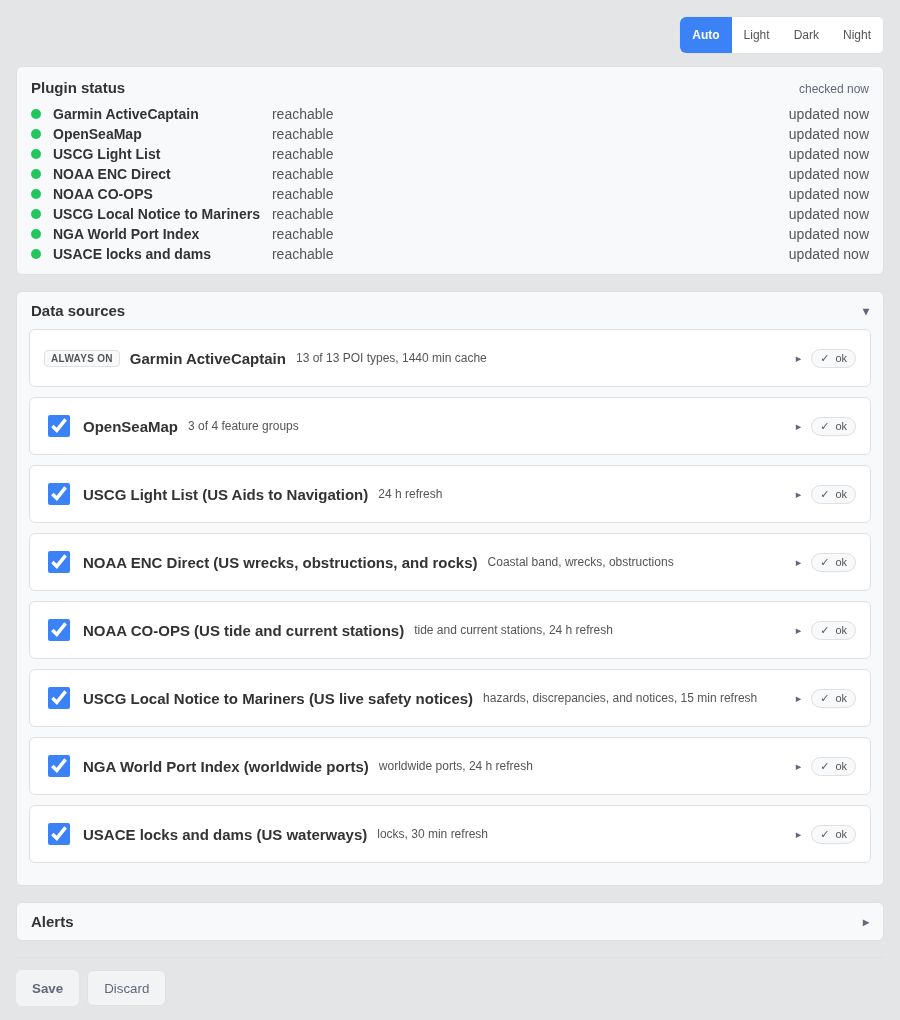
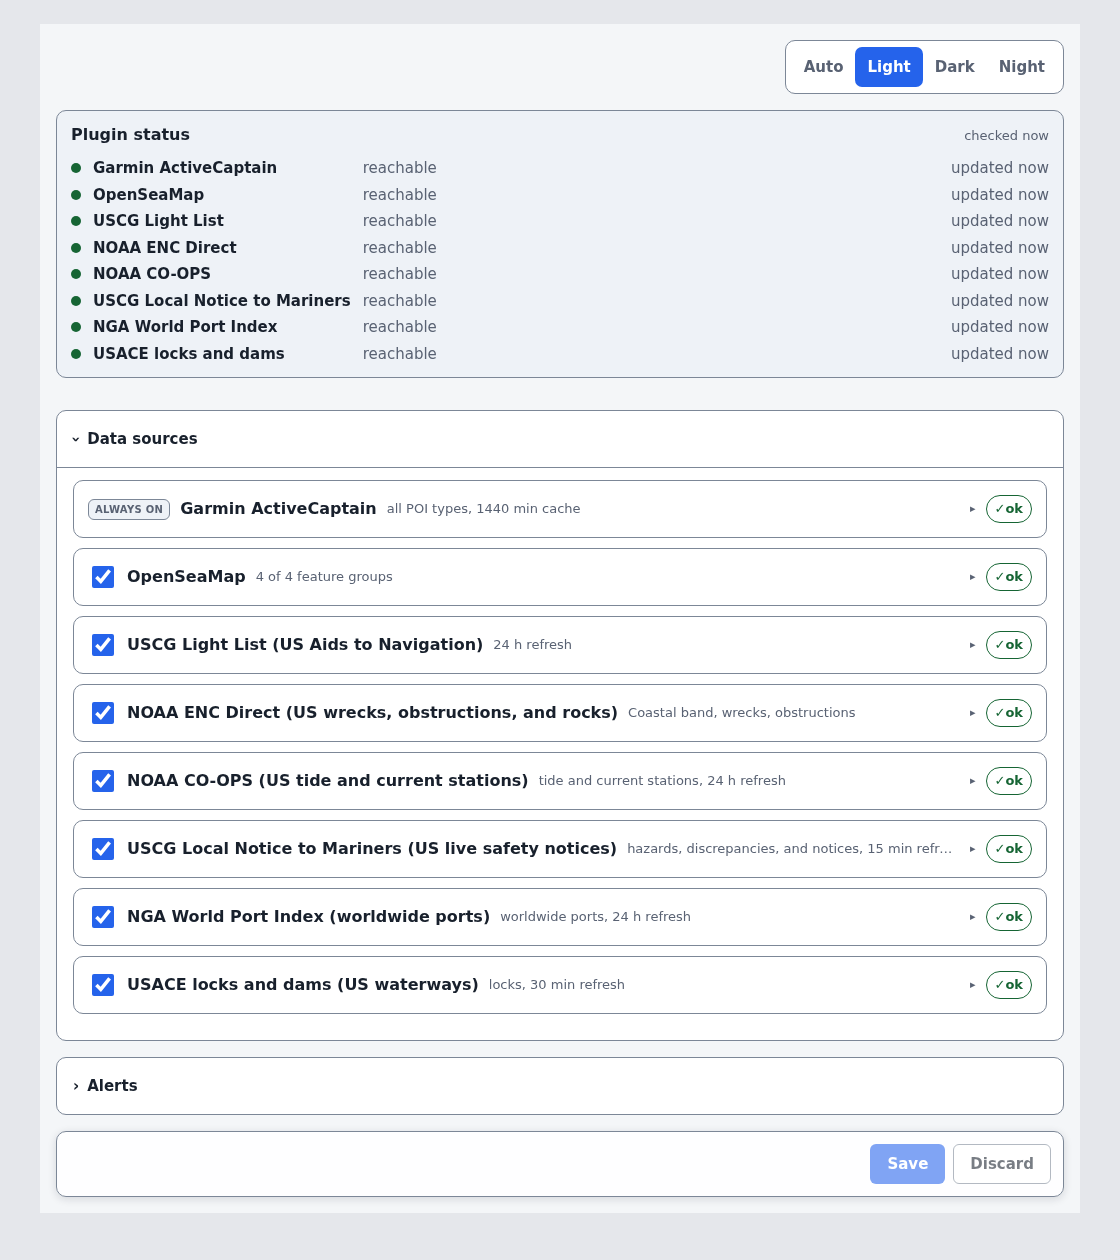
release: prepare 0.15.0

Changed region(s): [[0.0311, 0.0608, 0.9644, 0.9725], [0.6844, 0.0, 0.9956, 0.3039]]

diff --git a/README.md b/README.md
@@ -22,25 +22,22 @@ route-corridor, and bridge air-draft alarms.
 > safety-of-life navigation: always cross-check against official charts and
 > your primary instruments.
 
-## What's new in 0.14.0
+## What's new in 0.15.0
 
-- **Route warnings react while the vessel is stationary.** Changing the
-  active route now requests a fresh safety scan immediately, and the scan
-  limits a long first leg to the 10-nautical-mile look-ahead.
-- **Cleaner source shutdown and refresh behavior.** Stopping the plugin now
-  cancels retry delays, bulk refreshes, and NOAA or USACE ArcGIS requests
-  promptly. Async stores cannot commit a flush after shutdown, and complete
-  World Port Index refreshes remove ports that are no longer present upstream.
-- **More accurate status and resource responses.** Concurrent requests keep
-  their own source provenance, cached reads no longer hide refresh failures,
-  empty source selections read as intentional skips, malformed spatial queries
-  are rejected, and notification timestamps reflect the current publication
-  time.
-- **Safer spatial and transport boundaries.** ArcGIS queries split correctly
-  at the antimeridian, OpenSeaMap respects the selected feature groups, and
-  one-shot requests have wall-clock deadlines and bounded response bodies.
-- **Reproducible package contents.** The npm `prepack` lifecycle now cleans and
-  rebuilds the plugin and panel for both `npm pack` and `npm publish`.
+- **A shared, consistent configuration UI.** The panel now uses
+  `signalk-nearlcrews-ui` 0.3.0 for its shell, controls, and token-driven
+  themes. Fresh profiles start in Light mode, existing `ac-theme` choices
+  migrate automatically, and unsupported browsers receive a clear update
+  message.
+- **Current compatible dependencies.** Runtime and development packages are
+  updated to the latest versions supported by Node.js 20, TypeScript ESLint,
+  and neostandard.
+- **Bounded searches around the date line.** Explicit `notes` bounding boxes
+  cannot exceed the 20-degree search limit, and route or position-monitor
+  searches crossing the antimeridian retain the shortest longitude interval.
+- **Independent alarm identities.** Point-of-interest ids that contain unsafe
+  path characters now receive collision-free notification suffixes, so one
+  hazard cannot suppress or clear another hazard with a similar id.
 
 ## What it does
 
@@ -125,7 +122,7 @@ one panel.
 
 | ActiveCaptain hazard | USCG Light List aid | Configuration panel |
 | --- | --- | --- |
-| [![An ActiveCaptain hazard note open in Freeboard-SK, showing the rating, the review text, and a staleness warning](assets/screenshots/freeboard-activecaptain-hazard.png)](assets/screenshots/freeboard-activecaptain-hazard.png) | [![A USCG Light List buoy note open in Freeboard-SK, showing the light characteristic and the source citation](assets/screenshots/freeboard-uscg-light-list.png)](assets/screenshots/freeboard-uscg-light-list.png) | [![The Crow's Nest configuration panel, showing per-source live status and the data-source cards](assets/screenshots/admin-panel.png)](assets/screenshots/admin-panel.png) |
+| [![An ActiveCaptain hazard note open in Freeboard-SK, showing the rating, the review text, and a staleness warning](assets/screenshots/freeboard-activecaptain-hazard.png)](assets/screenshots/freeboard-activecaptain-hazard.png) | [![A USCG Light List buoy note open in Freeboard-SK, showing the light characteristic and the source citation](assets/screenshots/freeboard-uscg-light-list.png)](assets/screenshots/freeboard-uscg-light-list.png) | [![The light-themed Crow's Nest configuration panel, showing per-source live status and the data-source cards](assets/screenshots/admin-panel.png)](assets/screenshots/admin-panel.png) |
 
 ## Architecture
 

diff --git a/CHANGELOG.md b/CHANGELOG.md
@@ -11,6 +11,14 @@ aims to follow [Semantic Versioning](https://semver.org/spec/v2.0.0.html).
 
 ## [Unreleased]
 
+<a id="v0150"></a>
+
+## [0.15.0] - 2026-07-19
+
+This release moves the configuration panel onto the shared NearlCrews UI
+system, refreshes the dependency set, and closes geographic and notification
+identity edge cases.
+
 ### Changed
 
 - Updated the runtime and development dependency set to the latest versions

diff --git a/docs/roadmap.md b/docs/roadmap.md
@@ -39,7 +39,9 @@ terms-of-service exposure.
 - "Navigate to this POI": one-tap set the Course API destination.
 - Map preview in the configuration panel.
 - Bridge and lock schedule notifications on approach.
-- Night-vision (red) theme for the panel and the rendered note descriptions.
+- Night-vision (red) theme for the panel. Shipped in v0.8.2 and migrated to the
+  shared UI system in v0.15.0.
+- Night-vision theme for rendered note descriptions.
 - NOAA tide and current cross-reference for the nearest station.
 - CI release automation and SignalK App Store polish (icon, metadata). Shipped:
   a GitHub-release-driven npm publish with provenance, the plugin app icon,